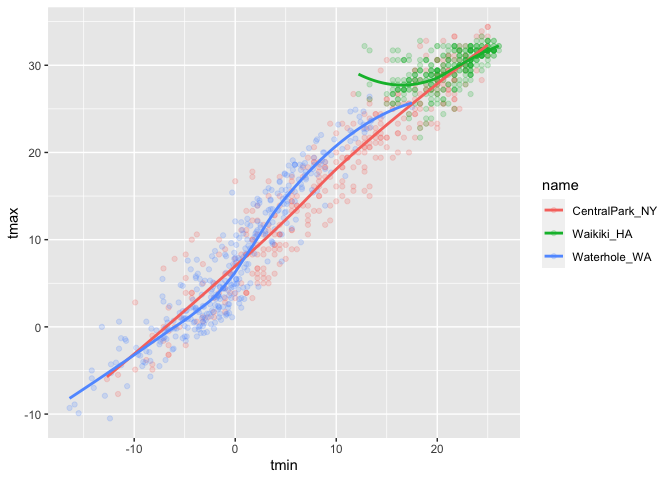
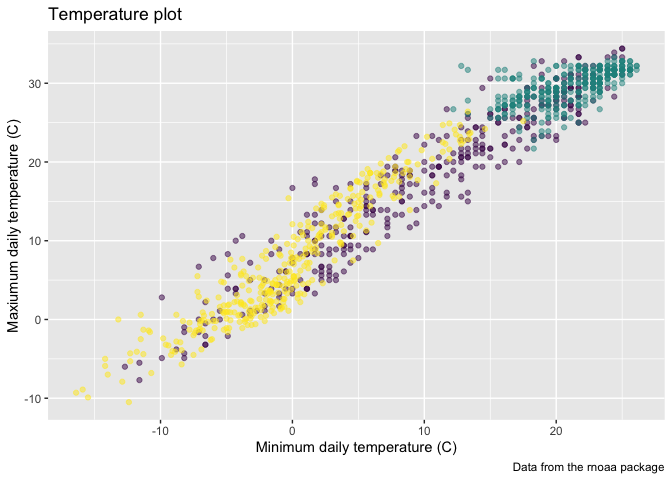
Theme：modify non-data elements

diff --git a/Visualization-Part_2.md b/Visualization-Part_2.md
@@ -190,3 +190,91 @@ weather_df %>%
     ## Warning: Removed 15 rows containing missing values (geom_point).
 
 ![](Visualization-Part_2_files/figure-gfm/unnamed-chunk-7-1.png)<!-- -->
+
+use the viridis package to create your own color scheme The
+viridis::scale_fill_viridis() function is appropriate for the fill
+aesthetic used in histograms, density plots, and elsewhere
+
+``` r
+ggp_temp_plot = 
+  weather_df %>% 
+  ggplot(aes(x = tmin, y = tmax)) + 
+  geom_point(aes(color = name), alpha = .5) + 
+  labs(
+    title = "Temperature plot",
+    x = "Minimum daily temperature (C)",
+    y = "Maxiumum daily temperature (C)",
+    caption = "Data from the rnoaa package"
+  ) + 
+  viridis::scale_color_viridis(
+    name = "Location", 
+    discrete = TRUE  #discrete = TRUE because the color aesthetic is mapped to a discrete variable.if it is a continuous color gradient, omit this code;
+  )
+
+ggp_temp_plot
+```
+
+    ## Warning: Removed 15 rows containing missing values (geom_point).
+
+![](Visualization-Part_2_files/figure-gfm/unnamed-chunk-8-1.png)<!-- -->
+
+## Themes
+
+Themes are used to modify non-data elements of a plot – they don’t
+change mappings or how data are render, but control things like
+background color and location of the the legend. Using themes can help
+with general plot appearance.
+
+### legend position
+
+``` r
+ggp_temp_plot + 
+  theme(legend.position = "bottom")
+```
+
+    ## Warning: Removed 15 rows containing missing values (geom_point).
+
+![](Visualization-Part_2_files/figure-gfm/unnamed-chunk-9-1.png)<!-- -->
+
+remove ledend
+
+``` r
+ggp_temp_plot + 
+  theme(legend.position = "none")
+```
+
+    ## Warning: Removed 15 rows containing missing values (geom_point).
+
+![](Visualization-Part_2_files/figure-gfm/unnamed-chunk-10-1.png)<!-- -->
+
+### Different themes
+
+While you can manage specific theme elements individually, I recommend
+using a built-in theme. By default this is theme_gray;
+
+here’s theme_bw(): Notes: The ordering of theme_bw() and theme() matters
+– theme() changes a particular element of the plot’s current “theme”. If
+you call theme to change the some element and then theme_bw(), the
+changes introduced by theme() are overwritten by theme_bw()
+
+``` r
+ggp_temp_plot + 
+  theme_bw() + 
+  theme(legend.position = "bottom")
+```
+
+    ## Warning: Removed 15 rows containing missing values (geom_point).
+
+![](Visualization-Part_2_files/figure-gfm/unnamed-chunk-11-1.png)<!-- -->
+
+theme_classic():
+
+``` r
+ggp_temp_plot + 
+  theme_classic() + 
+  theme(legend.position = "bottom")
+```
+
+    ## Warning: Removed 15 rows containing missing values (geom_point).
+
+![](Visualization-Part_2_files/figure-gfm/unnamed-chunk-12-1.png)<!-- -->
